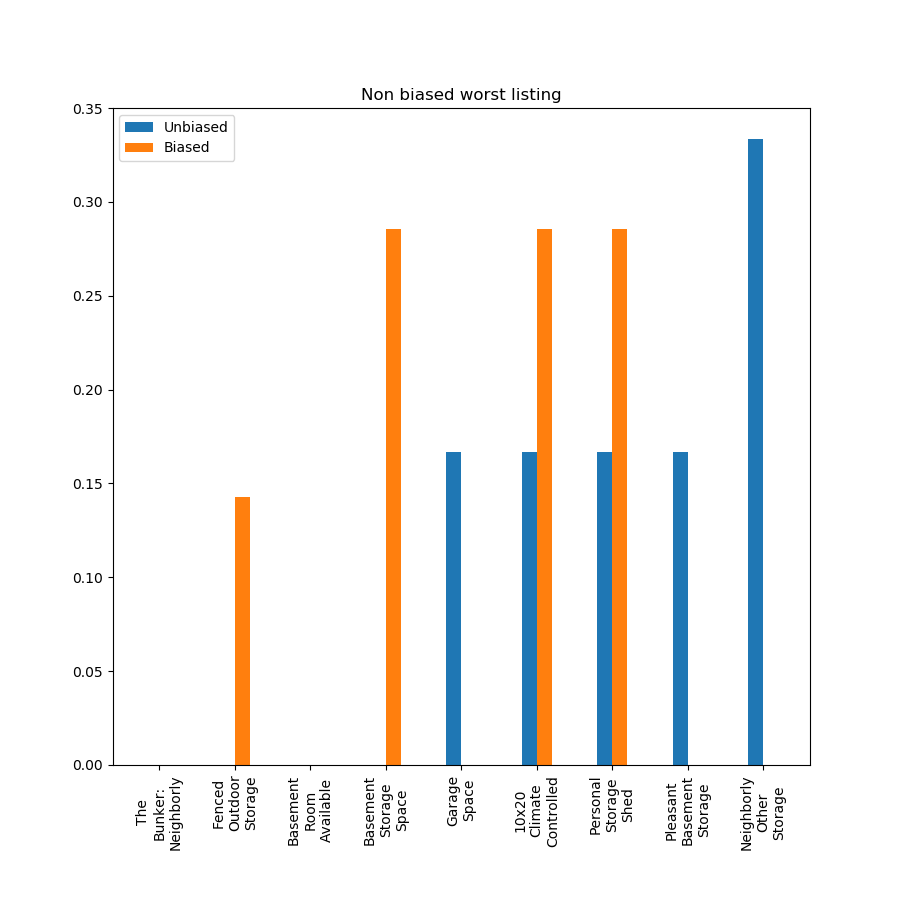
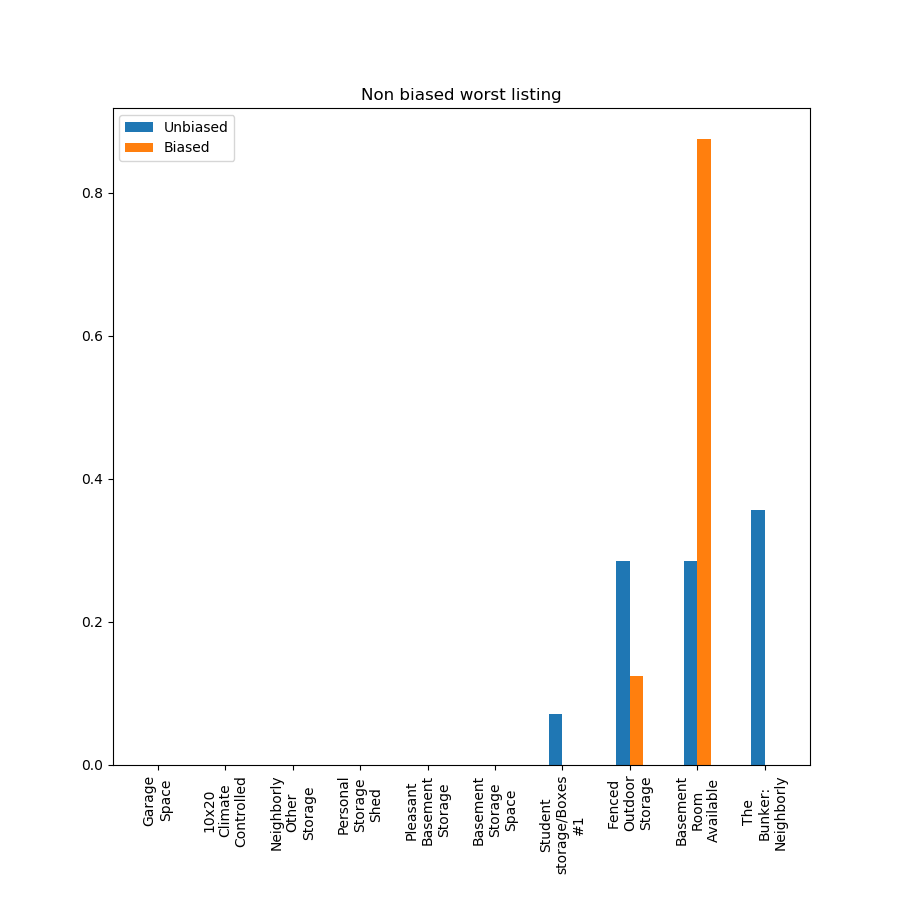
Fixed bar plots

diff --git a/dataparse.py b/dataparse.py
@@ -143,15 +143,15 @@ def get_freqs_worst(order, biased_order):
     
     for sub in order:
         lengths, names = list(zip(*sub))
-        idx = np.argmax(lengths)
+        idx = np.argmin(lengths)
         result[names[idx]] += 1
     
     for sub in biased_order:
         lengths, names = list(zip(*sub))
-        idx = np.argmax(lengths)
+        idx = np.argmin(lengths)
         biased_result[names[idx]] += 1
 
-    merged_result = [(key, value, biased_result[key]) for key, value in sorted(result.items(), key=(lambda x: x[1]))[::-1]]
+    merged_result = [(key, value, biased_result[key]) for key, value in sorted(result.items(), key=(lambda x: x[1]))]
     biased_freqs = []
     freqs = []
     labels = []
